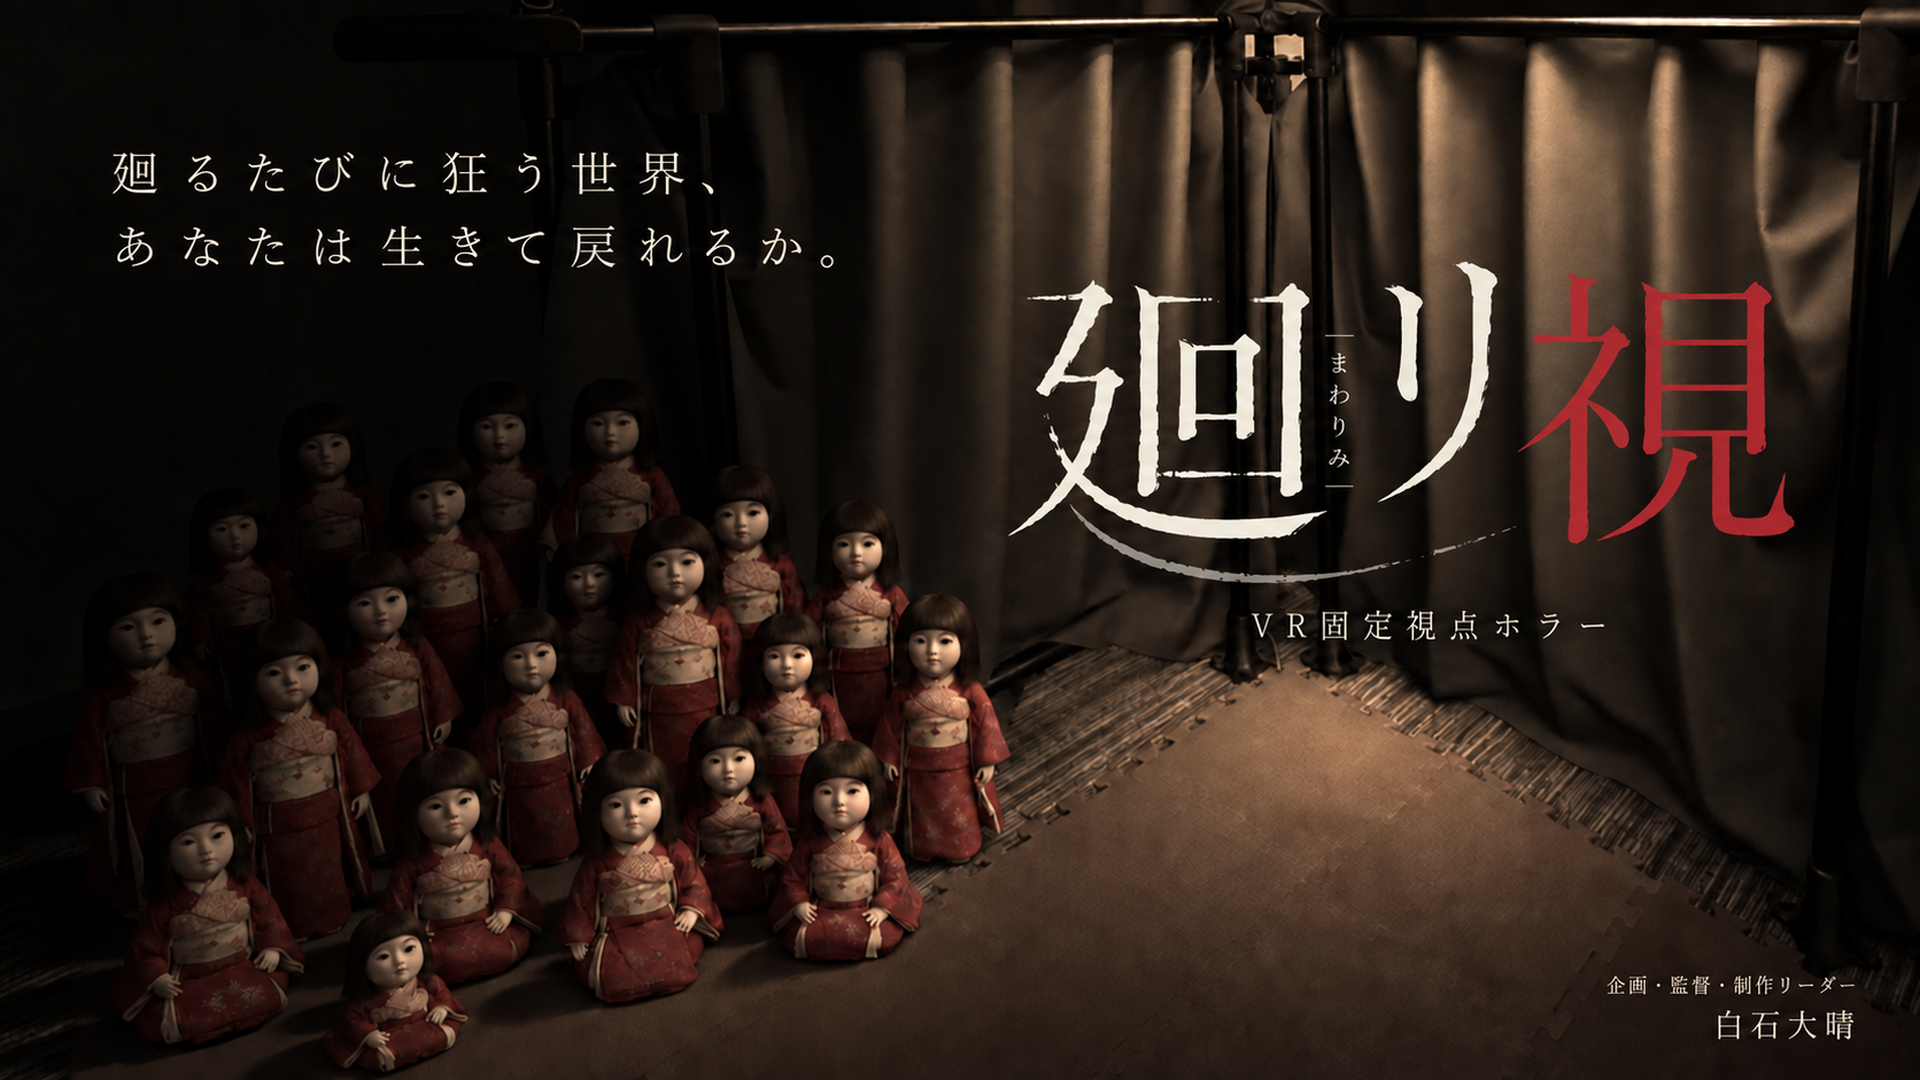
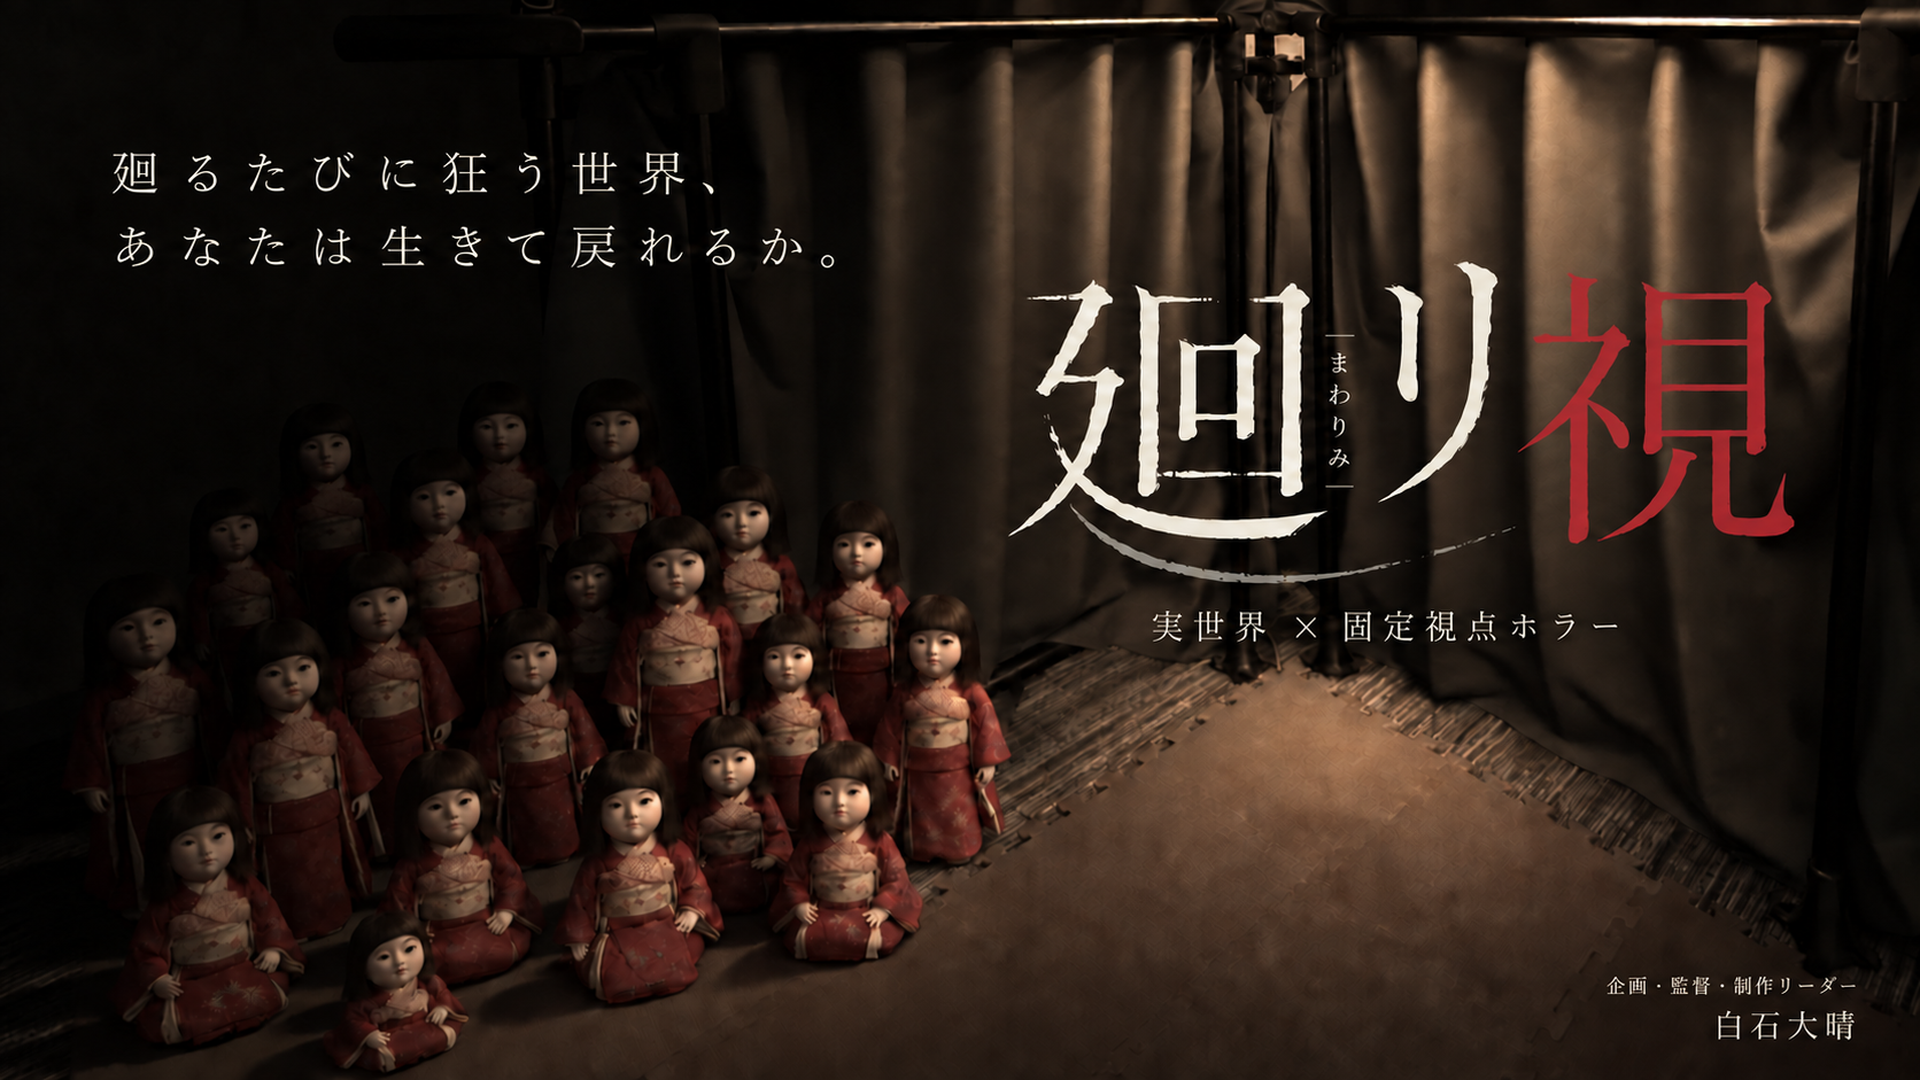
style：ジャンル表記を実世界×固定視点ホラーに変更

diff --git a/tools/title-art/README.md b/tools/title-art/README.md
@@ -10,7 +10,7 @@
 題字を右上に保ち、補助文字の配置を画像生成で仕上げた。
 コピーは左上に横書き2行。ジャンル表記は題字の下。制作クレジットは右下にまとめる。
 コピー全文は「廻るたびに狂う世界、あなたは生きて戻れるか。」。
-ジャンルは「ＶＲ固定視点ホラー」。クレジットは「企画・監督・制作リーダー」「白石大晴」。
+ジャンルは「実世界 × 固定視点ホラー」。クレジットは「企画・監督・制作リーダー」「白石大晴」。
 完成原稿には題字も含まれる。題字を変更する場合はこの原稿も更新する。
 旧背景は制作履歴として保持する。通常の再生成でも完成原稿から書き出す。
 

diff --git a/.claude/canon/LEDGER.md b/.claude/canon/LEDGER.md
@@ -7906,3 +7906,7 @@ B と A に題字と文字を組んだ版を見せた直後の判定:
 
 - 採用する題字は `tools/title-art/mawarimi-title-master-v2.png`
 - 同じ字形を Web UI、Quest のタイトル演出、キービジュアルに使う
+
+### 0206 キービジュアルのジャンル表記（2026-09-13）
+
+> 実世界 × 固定視点ホラー  にしよう。
